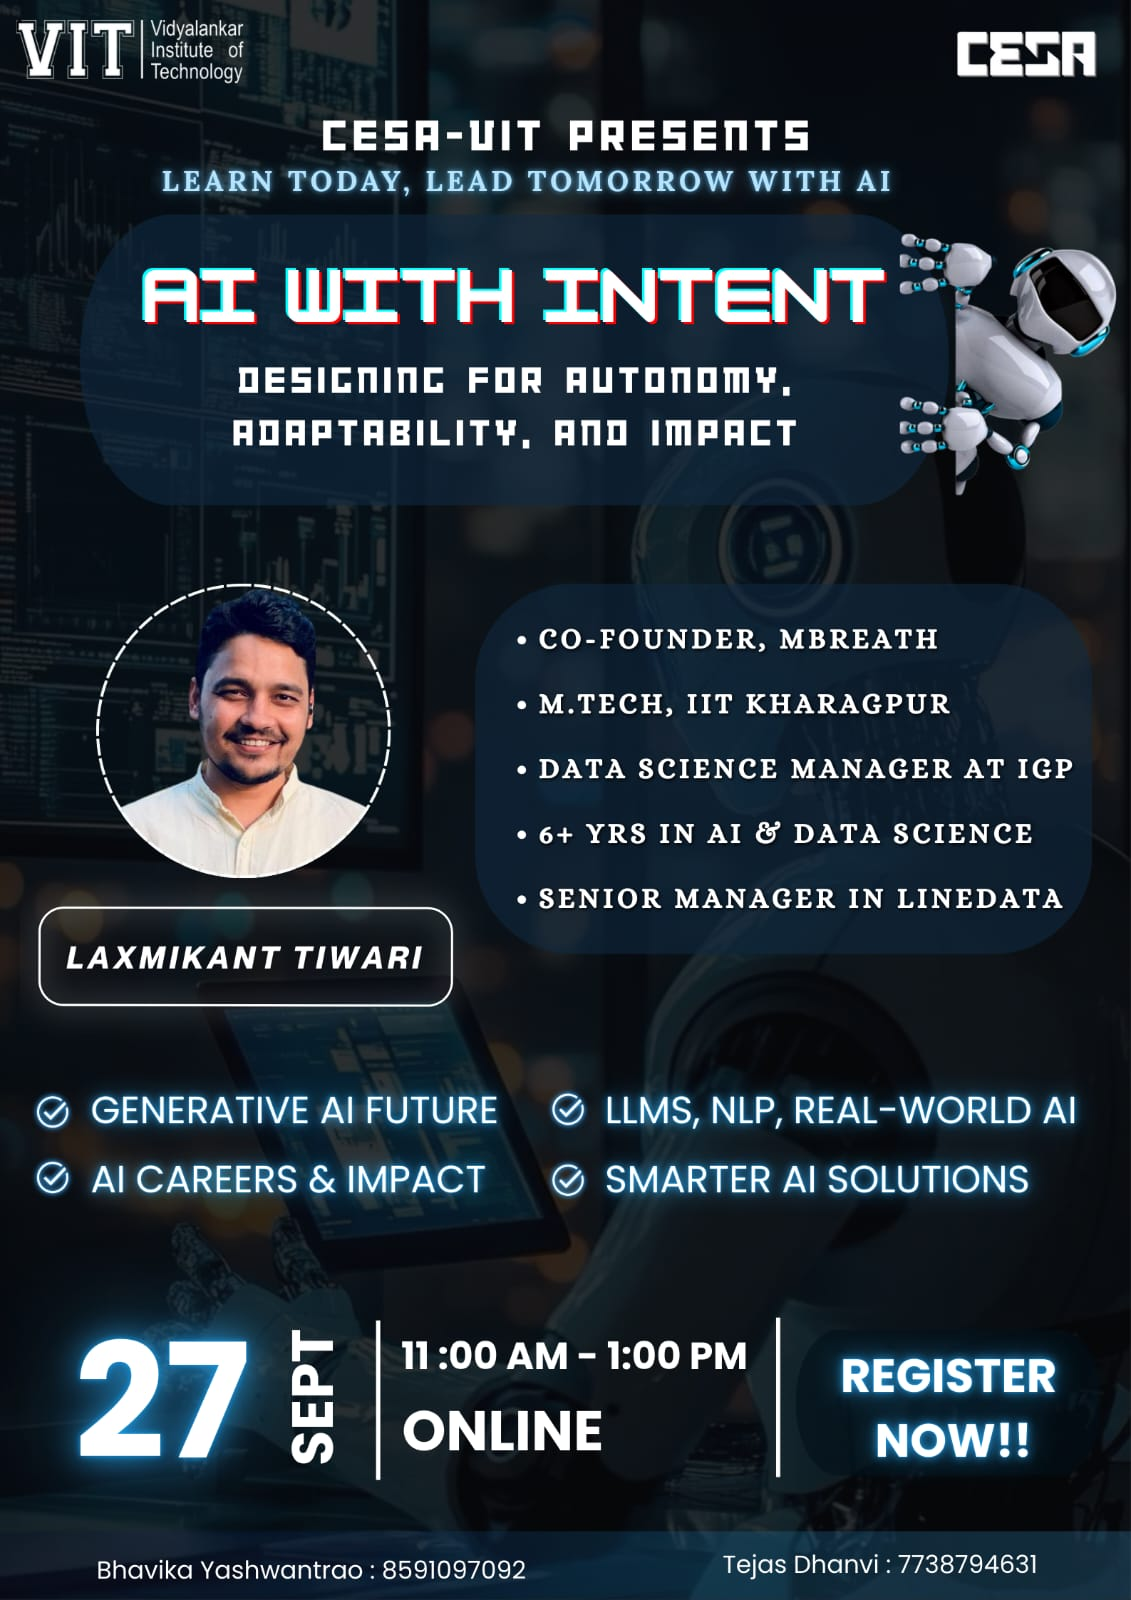
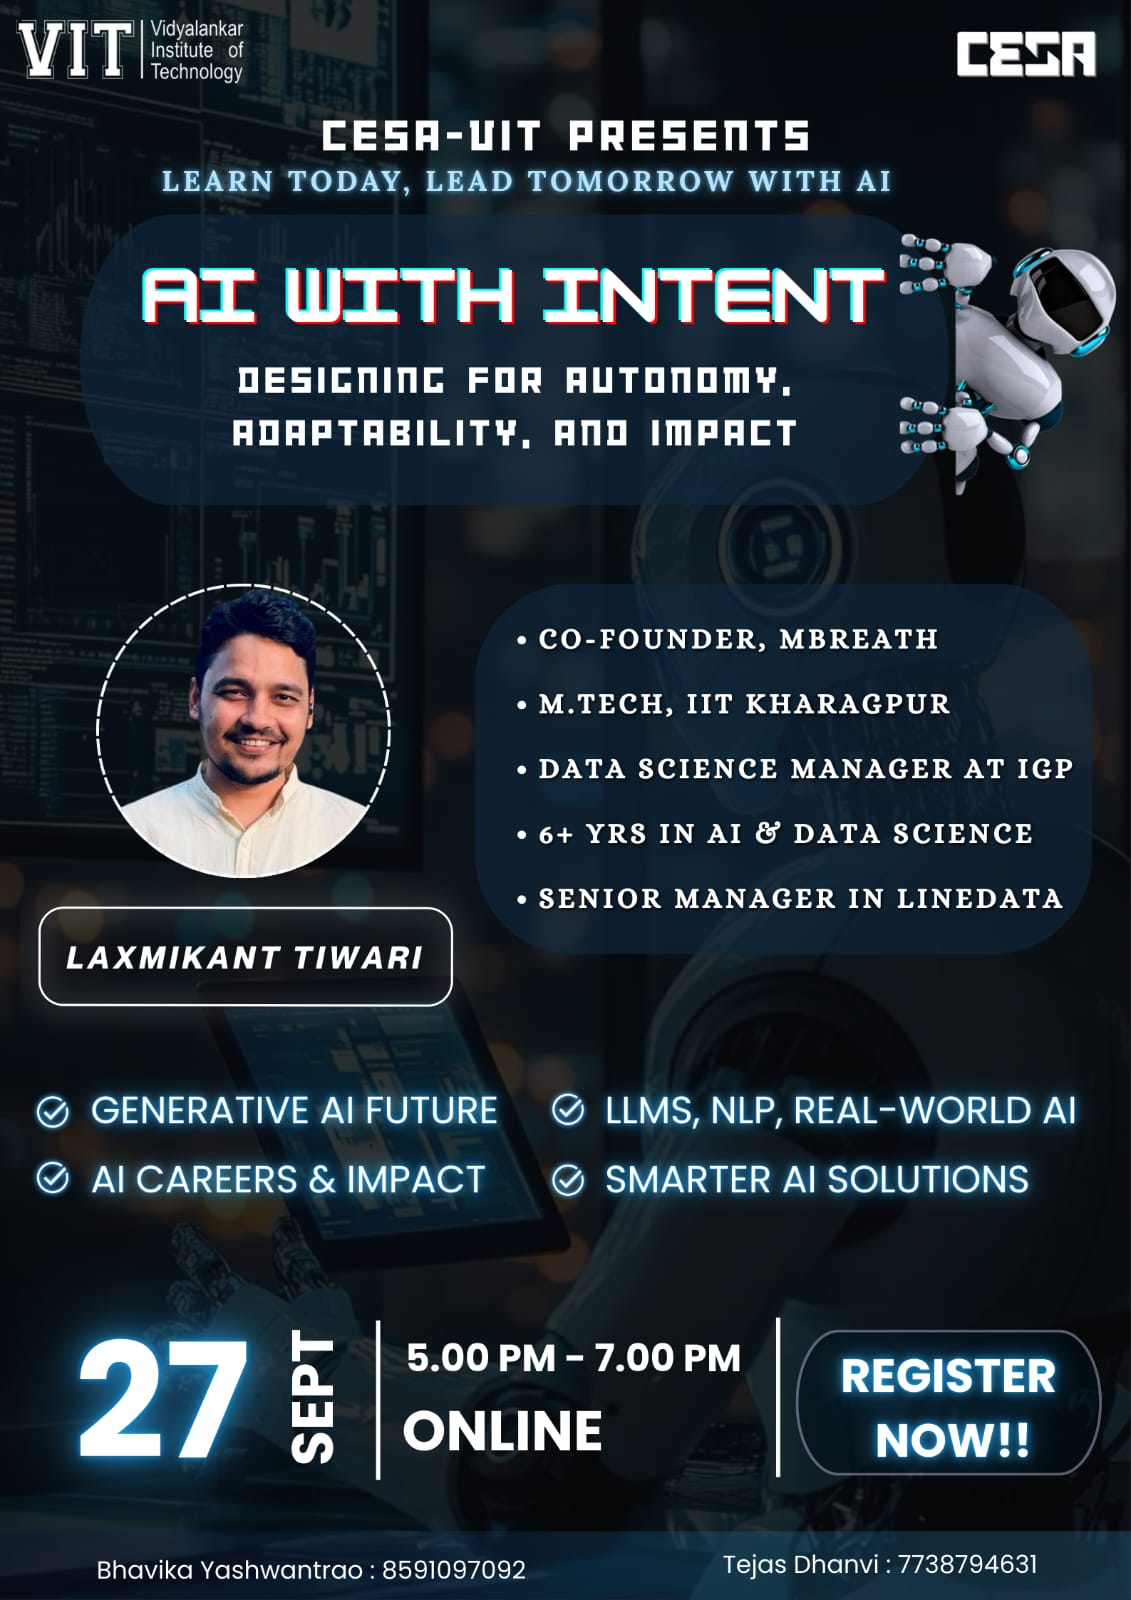
Fix the navigation ,change the bento grid and events time

Changed region(s): [[0.3404, 0.8125, 0.6808, 0.875], [0.9593, 0.8438, 0.9903, 0.9062]]

diff --git a/components/MagicBento.jsx b/components/MagicBento.jsx
@@ -2,7 +2,7 @@
 import { useRef, useEffect, useState, useCallback } from 'react';
 import { gsap } from 'gsap';
 import Image from 'next/image';
-import { Code, Handshake, Target, Zap } from 'lucide-react';
+import { Code, Handshake, Target, Zap, Instagram, Youtube, Linkedin } from 'lucide-react';
 
 
 const DEFAULT_PARTICLE_COUNT = 12;
@@ -509,7 +509,7 @@ const MagicBento = ({
                 </div>
                 <div className="text-white font-heading text-xl">AI with Intent</div>
                 <div className="text-white/60 text-xs">Sat, 11:00 AM · Microsoft Teams</div>
-                <p className="text-white/70 text-sm mt-2 max-w-[220px]">
+                <p className="text-white/70 text-sm p-1 line-clamp-3  mt-2 max-w-[240px]">
                   Discover how Generative AI, LLMs, and real-world applications are reshaping industries and careers in this exclusive session with Laxmikant Tiwari, IIT Kharagpur alumnus and AI expert with 6+ years of experience.
                 </p>
               </div>
@@ -571,35 +571,7 @@ const MagicBento = ({
             </div>
           </ParticleCard>
 
-
-          {/* Left Big - Group Picture */}
-          <ParticleCard
-            className={`card bento-left relative w-full p-6 rounded-[20px] border border-solid ${enableBorderGlow ? "card--border-glow" : ""
-              }`}
-            style={{
-              backgroundColor: "var(--background-dark)",
-              borderColor: "var(--border-color)",
-              color: "var(--white)",
-            }}
-            disableAnimations={shouldDisableAnimations}
-            particleCount={particleCount}
-            glowColor={glowColor}
-            enableTilt={true}
-            clickEffect={clickEffect}
-            enableMagnetism={enableMagnetism}
-          >
-            <div className='w-full h-[30vh] md:h-full '>
-              <Image
-                src={'/group.jpg'}
-                fill
-                className='md:object-contain object-cover'
-              />
-            </div>
-          </ParticleCard>
-
-
-          {/* Right Big - Placeholder */}
-          <ParticleCard
+            <ParticleCard
             className={`card bento-right relative w-full p-6 rounded-[20px] border border-solid ${enableBorderGlow ? 'card--border-glow' : ''}`}
             style={{
               backgroundColor: 'var(--background-dark)',
@@ -627,6 +599,34 @@ const MagicBento = ({
               </p>
             </div>
           </ParticleCard>
+          {/* Rigjht Big - Group Picture */}
+          <ParticleCard
+            className={`card bento-left relative w-full p-6 rounded-[20px] border border-solid ${enableBorderGlow ? "card--border-glow" : ""
+              }`}
+            style={{
+              backgroundColor: "var(--background-dark)",
+              borderColor: "var(--border-color)",
+              color: "var(--white)",
+            }}
+            disableAnimations={shouldDisableAnimations}
+            particleCount={particleCount}
+            glowColor={glowColor}
+            enableTilt={true}
+            clickEffect={clickEffect}
+            enableMagnetism={enableMagnetism}
+          >
+            <div className='w-full h-[30vh] md:h-full '>
+              <Image
+                src={'/group.jpg'}
+                fill
+                className='md:object-contain object-cover'
+              />
+            </div>
+          </ParticleCard>
+
+
+          {/* left Big - Placeholder */}
+          
 
 
           {/* Small C - Stat */}
@@ -695,24 +695,22 @@ const MagicBento = ({
                 <a href="https://www.instagram.com/cesa.vit?utm_source=ig_web_button_share_sheet&igsh=ZDNlZDc0MzIxNw==" target="_blank" rel="noopener noreferrer" className="group relative rounded-xl overflow-hidden">
                   <span className="absolute inset-0 bg-gradient-to-br from-[#1e0f2b] to-transparent opacity-0 group-hover:opacity-100 transition" />
                   <div className="rounded-xl bg-[#12091d] border border-[#392e4e] px-3 py-3 text-center text-white/80 group-hover:bg-[#1e0f2b] transition">
-                    <span className="block text-lg">◎</span>
-                    <span className="block text-[10px] text-white/60">Instagram</span>
+                    <Instagram size={20} className="block mx-auto text-pink-400" />
+                    <span className="block text-[10px] text-white/60 mt-1">Instagram</span>
                   </div>
                 </a>
                 <a href="https://www.youtube.com/@cesavit153" target="_blank" rel="noopener noreferrer" className="group relative rounded-xl overflow-hidden">
                   <span className="absolute inset-0 bg-gradient-to-br from-[#1e0f2b] to-transparent opacity-0 group-hover:opacity-100 transition" />
                   <div className="rounded-xl bg-[#12091d] border border-[#392e4e] px-3 py-3 text-center text-white/80 group-hover:bg-[#1e0f2b] transition">
-                    <svg className="block mx-auto h-6 w-6" viewBox="0 0 24 24" fill="white" xmlns="http://www.w3.org/2000/svg">
-                      <path d="M12 2C6.48 2 2 6.48 2 12s4.48 10 10 10 10-4.48 10-10S17.52 2 12 2zm-2 14.5v-9l6 4.5-6 4.5z"/>
-                    </svg>
-                    <span className="block text-[10px] text-white/60">Youtube</span>
+                    <Youtube size={20} className="block mx-auto text-red-400" />
+                    <span className="block text-[10px] text-white/60 mt-1">Youtube</span>
                   </div>
                 </a>
                 <a href="https://www.linkedin.com/company/cesa-vit/" target="_blank" rel="noopener noreferrer" className="group relative rounded-xl overflow-hidden">
                   <span className="absolute inset-0 bg-gradient-to-br from-[#1e0f2b] to-transparent opacity-0 group-hover:opacity-100 transition" />
                   <div className="rounded-xl bg-[#12091d] border border-[#392e4e] px-3 py-3 text-center text-white/80 group-hover:bg-[#1e0f2b] transition">
-                    <span className="block text-lg">in</span>
-                    <span className="block text-[10px] text-white/60">LinkedIn</span>
+                    <Linkedin size={20} className="block mx-auto text-blue-400" />
+                    <span className="block text-[10px] text-white/60 mt-1">LinkedIn</span>
                   </div>
                 </a>
               </div>

diff --git a/component/Navbar.jsx b/component/Navbar.jsx
@@ -3,10 +3,12 @@
 import React, { useState, useEffect } from 'react';
 import Link from 'next/link';
 import Image from 'next/image';
+import { useRouter } from 'next/navigation';
 
 const Navbar = () => {
   const [open, setOpen] = useState(false);
   const [isScrolled, setIsScrolled] = useState(false);
+  const router=useRouter();
 
   useEffect(() => {
     const handleScroll = () => {
@@ -40,18 +42,18 @@ const Navbar = () => {
 
           {/* Desktop Menu */}
           <div className="hidden md:flex text-white space-x-8 items-center">
-            <a href="#home" className="navlink text-2xl text-white/80 hover:text-[#CF9EFF] transition-all duration-300 cursor-pointer relative group">
+            <button onClick={() => router.push('/#home')} className="navlink text-2xl text-white/80 hover:text-[#CF9EFF] transition-all duration-300 cursor-pointer relative group">
               Home
               <div className="absolute -bottom-1 left-0 w-0 h-0.5 bg-gradient-to-r from-[#CF9EFF] to-[#A855F7] group-hover:w-full transition-all duration-300"></div>
-            </a>
-            <a href="#about" className="navlink text-2xl text-white/80 hover:text-[#CF9EFF] transition-all duration-300 cursor-pointer relative group">
+            </button>
+            <button onClick={() => router.push('/#about')} className="navlink text-2xl text-white/80 hover:text-[#CF9EFF] transition-all duration-300 cursor-pointer relative group">
               About Us
               <div className="absolute -bottom-1 left-0 w-0 h-0.5 bg-gradient-to-r from-[#CF9EFF] to-[#A855F7] group-hover:w-full transition-all duration-300"></div>
-            </a>
-            <a href="#events" className="navlink text-2xl text-white/80 hover:text-[#CF9EFF] transition-all duration-300 cursor-pointer relative group">
+            </button>
+            <button onClick={() => router.push('/#events')} className="navlink text-2xl text-white/80 hover:text-[#CF9EFF] transition-all duration-300 cursor-pointer relative group">
               Events
               <div className="absolute -bottom-1 left-0 w-0 h-0.5 bg-gradient-to-r from-[#CF9EFF] to-[#A855F7] group-hover:w-full transition-all duration-300"></div>
-            </a>
+            </button>
             <Link href="/team" className="navlink text-2xl text-white/80 hover:text-[#CF9EFF] transition-all duration-300 cursor-pointer relative group">
               Team
               <div className="absolute -bottom-1 left-0 w-0 h-0.5 bg-gradient-to-r from-[#CF9EFF] to-[#A855F7] group-hover:w-full transition-all duration-300"></div>
@@ -81,9 +83,9 @@ const Navbar = () => {
       {open && (
         <div className="md:hidden bg-black/95 backdrop-blur-md border border-white/10 shadow-lg">
           <div className="px-2 pt-2 pb-3 space-y-1 flex flex-col">
-            <a href="#home" className="navlink block px-3 py-2 rounded-md text-3xl font-medium text-white hover:bg-[#CF9EFF]/20 hover:text-[#CF9EFF] cursor-pointer transition-all duration-300" onClick={() => setOpen(false)}>Home</a>
-            <a href="#about" className="navlink block px-3 py-2 rounded-md text-3xl font-medium text-white hover:bg-[#CF9EFF]/20 hover:text-[#CF9EFF] cursor-pointer transition-all duration-300" onClick={() => setOpen(false)}>About Us</a>
-            <a href="#events" className="navlink block px-3 py-2 rounded-md text-3xl font-medium text-white hover:bg-[#CF9EFF]/20 hover:text-[#CF9EFF] cursor-pointer transition-all duration-300" onClick={() => setOpen(false)}>Events</a>
+            <button onClick={() => {router.push('/#home'); setOpen(false);}} className="navlink block px-3 py-2 rounded-md text-3xl font-medium text-white hover:bg-[#CF9EFF]/20 hover:text-[#CF9EFF] cursor-pointer transition-all duration-300 text-left">Home</button>
+            <button onClick={() => {router.push('/#about'); setOpen(false);}} className="navlink block px-3 py-2 rounded-md text-3xl font-medium text-white hover:bg-[#CF9EFF]/20 hover:text-[#CF9EFF] cursor-pointer transition-all duration-300 text-left">About Us</button>
+            <button onClick={() => {router.push('/#events'); setOpen(false);}} className="navlink block px-3 py-2 rounded-md text-3xl font-medium text-white hover:bg-[#CF9EFF]/20 hover:text-[#CF9EFF] cursor-pointer transition-all duration-300 text-left">Events</button>
             <Link href="/team" className="navlink block px-3 py-2 rounded-md text-3xl font-medium text-white hover:bg-[#CF9EFF]/20 hover:text-[#CF9EFF] cursor-pointer transition-all duration-300" onClick={() => setOpen(false)}>Team</Link>
           </div>
         </div>

diff --git a/component/EventsSlider/EventSwiper.jsx b/component/EventsSlider/EventSwiper.jsx
@@ -13,7 +13,7 @@ const defaultEvents = [
      {
     id: 4,
     title: "",
-    date: "Sep 27, 11:00 AM-1.00 PM",
+    date: "Sep 27, 5:00 PM - 7.00 PM",
     location: "Online",
     image: "/Poster/AiIntent.jpg",
     description:
@@ -23,33 +23,33 @@ Our flagship event, Plethora, brings together coding competitions, AI/ML challen
 
 Guided by our motto — Code. Compete. Conquer. — we strive to shape the next generation of tech leaders.`,
   },
-  {
-    id: 3,
-    title: "ByteFOrtune",
-    date: "Sep 30, 3:00 PM",
-    location: "Lab 1",
-    image: "/Poster/ByteFortune.jpg",
-    description:
-      `Round 1: Spin the Wheel
-Participants get 15 minutes to solve as many coding problems as possible. Each spin decides the problem to attempt. After solving, they must mark it complete before spinning again.
+//   {
+//     id: 3,
+//     title: "ByteFOrtune",
+//     date: "Sep 30, 3:00 PM",
+//     location: "Lab 1",
+//     image: "/Poster/ByteFortune.jpg",
+//     description:
+//       `Round 1: Spin the Wheel
+// Participants get 15 minutes to solve as many coding problems as possible. Each spin decides the problem to attempt. After solving, they must mark it complete before spinning again.
 
-Round 2: Flip the Cards
-Top 40% teams qualify. Each team picks a card revealing their coding challenge. After a set time, they may use points to purchase a Power Card, which could be an advantage (bonus points, extra time, hints) or a disadvantage (restrictions, handicaps) based purely on luck.
+// Round 2: Flip the Cards
+// Top 40% teams qualify. Each team picks a card revealing their coding challenge. After a set time, they may use points to purchase a Power Card, which could be an advantage (bonus points, extra time, hints) or a disadvantage (restrictions, handicaps) based purely on luck.
 
-Rules & Judging
+// Rules & Judging
 
-Submit complete, functional code for every problem.
+// Submit complete, functional code for every problem.
 
-Problems follow predefined I/O specifications.
+// Problems follow predefined I/O specifications.
 
-Submissions are evaluated against test cases.
+// Submissions are evaluated against test cases.
 
-Only correct, properly submitted solutions count toward scoring.`,
-  },
+// Only correct, properly submitted solutions count toward scoring.`,
+//   },
   {
     id: 1,
     title: "Hackbuilt",
-    date: "Fri, 7:00 PM",
+    date: "",
     location: "Auditorium",
     image: "/Poster/Hackbuild.jpg",
     description:
@@ -58,8 +58,8 @@ Only correct, properly submitted solutions count toward scoring.`,
   {
     id: 2,
     title: "Alumini",
-    date: "Oct 12, 10:00 AM",
-    location: "Lab 3",
+    date: "Aug 16, 11:00 AM - 1.00 PM",
+    location: "Online",
     image: "/Poster/Alumni.jpg",
     description:
       `Alumni Unplugged is an exclusive podcast conducted by CESA in collaboration with GDG VIT and CSI-VIT, streamed live on YouTube. The event is designed to bridge the gap between college life and the professional world by featuring inspiring alumni who share their journeys, challenges, and success stories.

diff --git a/component/Upcoming.jsx b/component/Upcoming.jsx
@@ -34,7 +34,7 @@ const Upcoming = ({
   subtitle = "Discover Generative AI and real-world applications with industry expert Laxmikant Tiwari",
   ctaText = "Register for AI with Intent",
   ctaHref = "https://forms.gle/vwrFZ2TM6qLDkPPJ7",
-  target = "2025-09-27T11:00:00",
+  target = "2025-09-27T17:00:00",
   imageSrc = "/Hand.png",
   imageAlt = "Energy hand",
 }) => {
@@ -49,7 +49,7 @@ const Upcoming = ({
   }, [targetDate]);
 
   return (
-    <section id="upcoming" className="w-full bg-[#0A0711]">
+    <section  className="w-full bg-[#0A0711]">
       <div className="mx-auto w-full max-w-7xl px-4 sm:px-6 lg:px-8 ">
         <div className="grid grid-cols-1 lg:grid-cols-2 gap-12 items-center">
           {/* Left: Text and countdown */}

diff --git a/component/Events.jsx b/component/Events.jsx
@@ -9,7 +9,7 @@ import Upcoming from "./Upcoming";
 const Events = () => {
 
   return (
-    <div className="min-h-screen w-full relative flex flex-col items-center  md:px-4 py-12 sm:py-16">
+    <div id="events" className="min-h-screen w-full relative flex flex-col items-center  md:px-4 py-12 sm:py-16">
       <h1 className="text-3xl sm:text-4xl md:text-5xl font-heading text-white mb-10 text-center">
         Events
       </h1>
